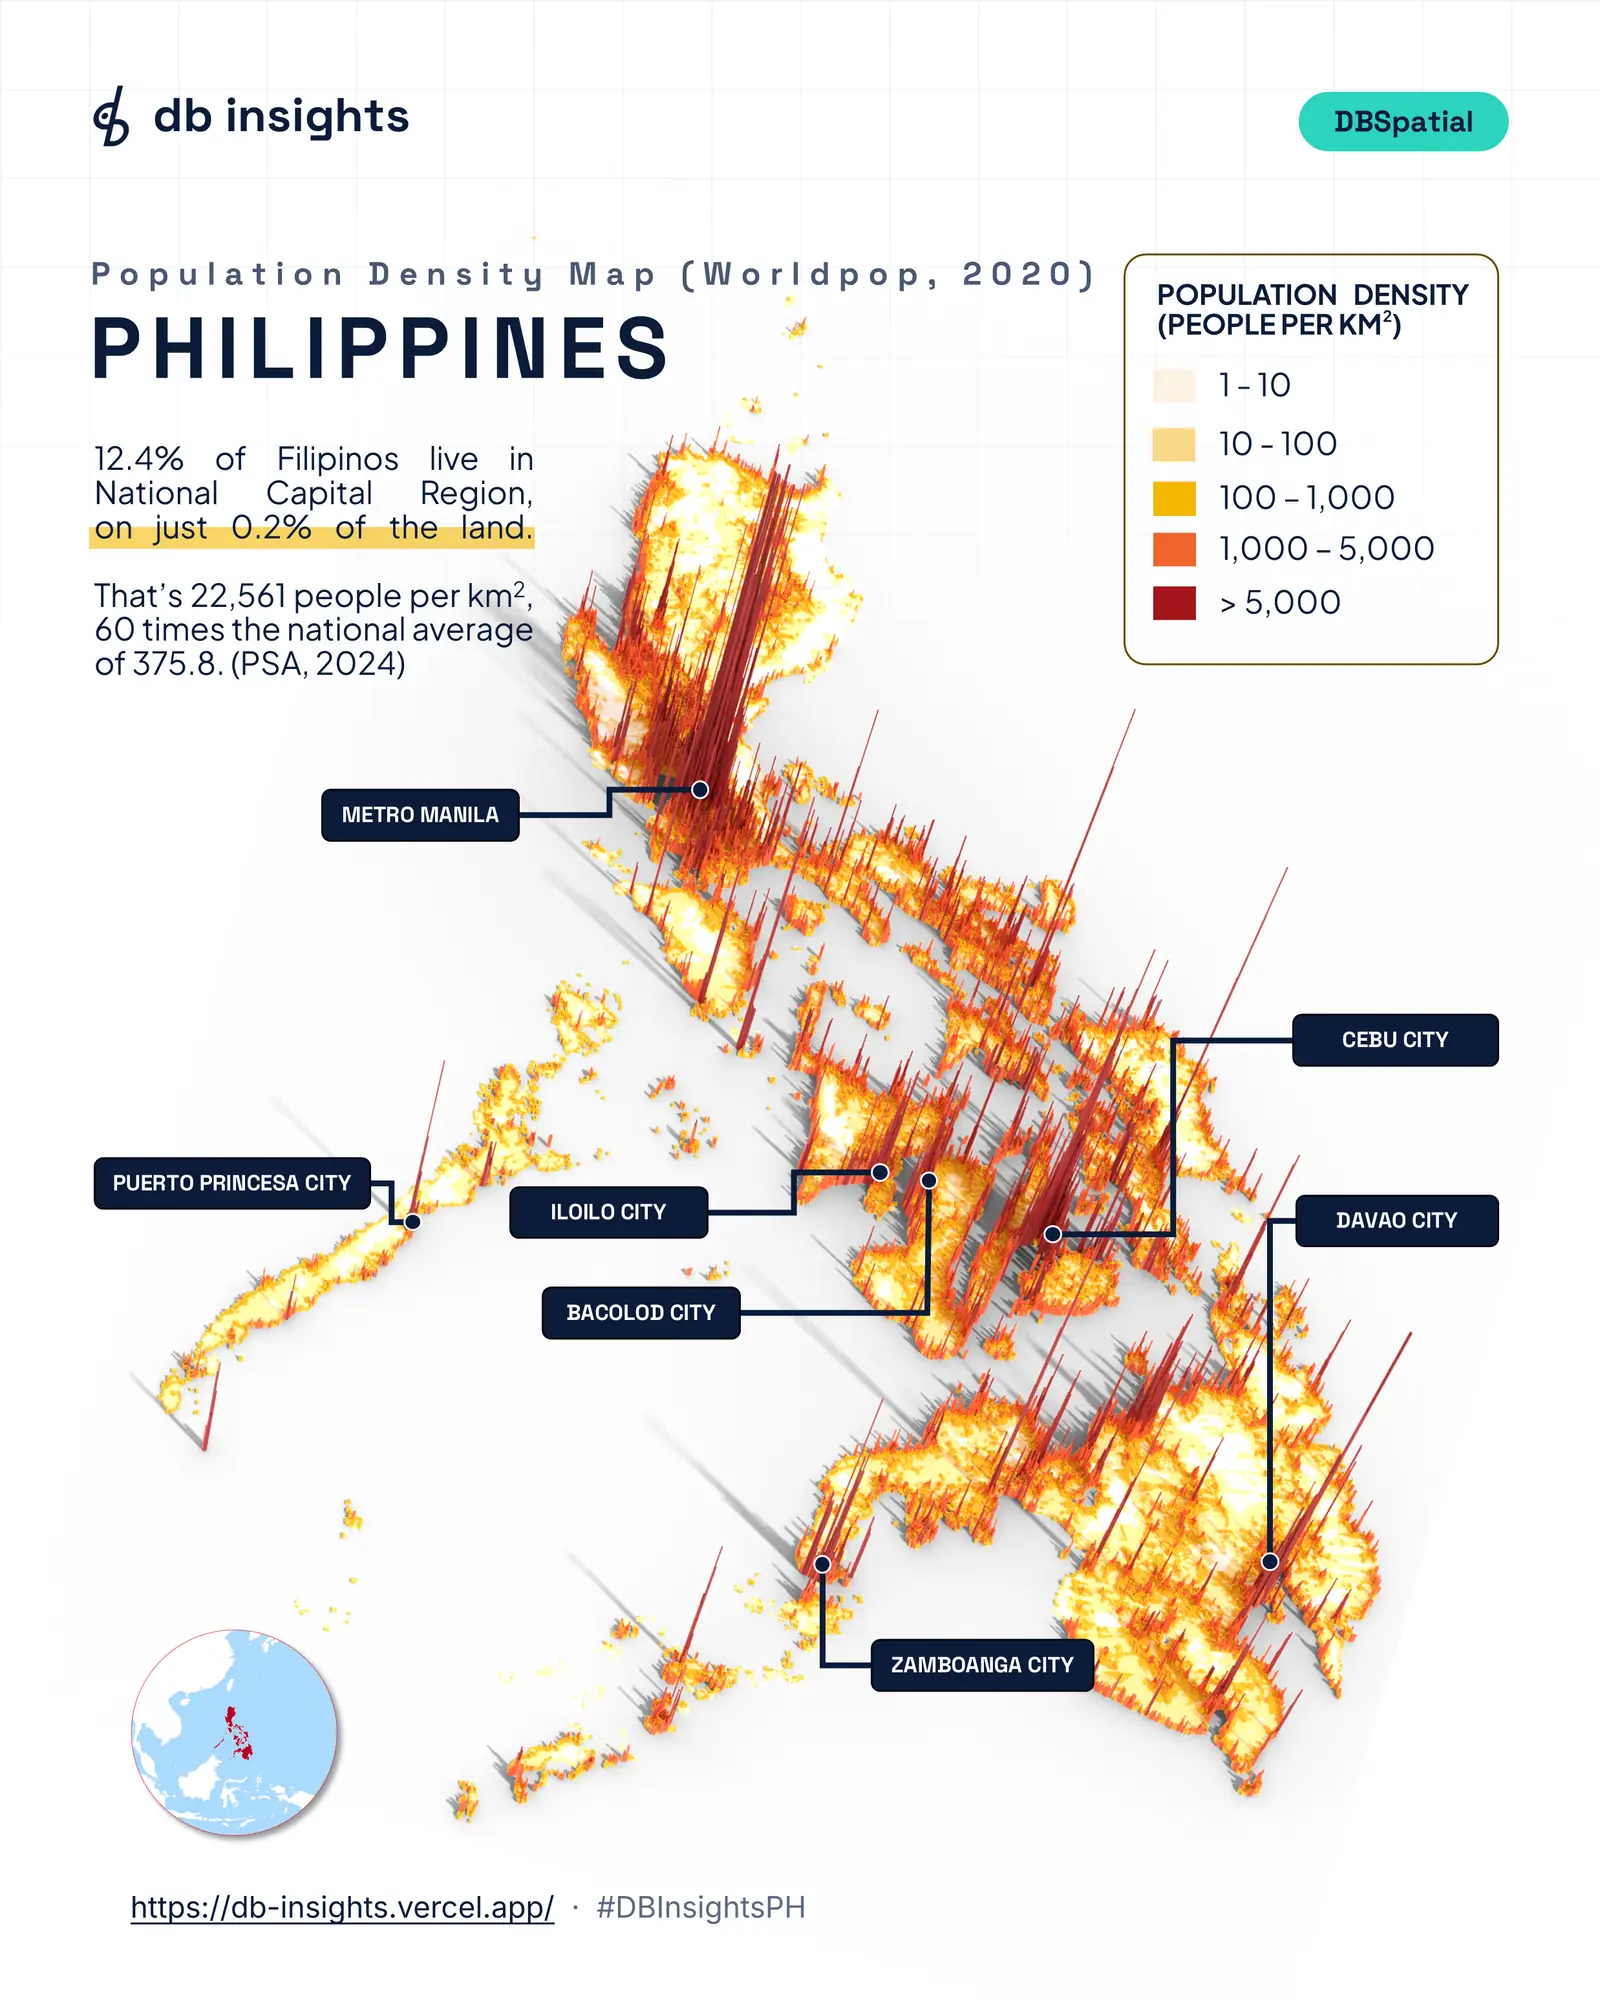
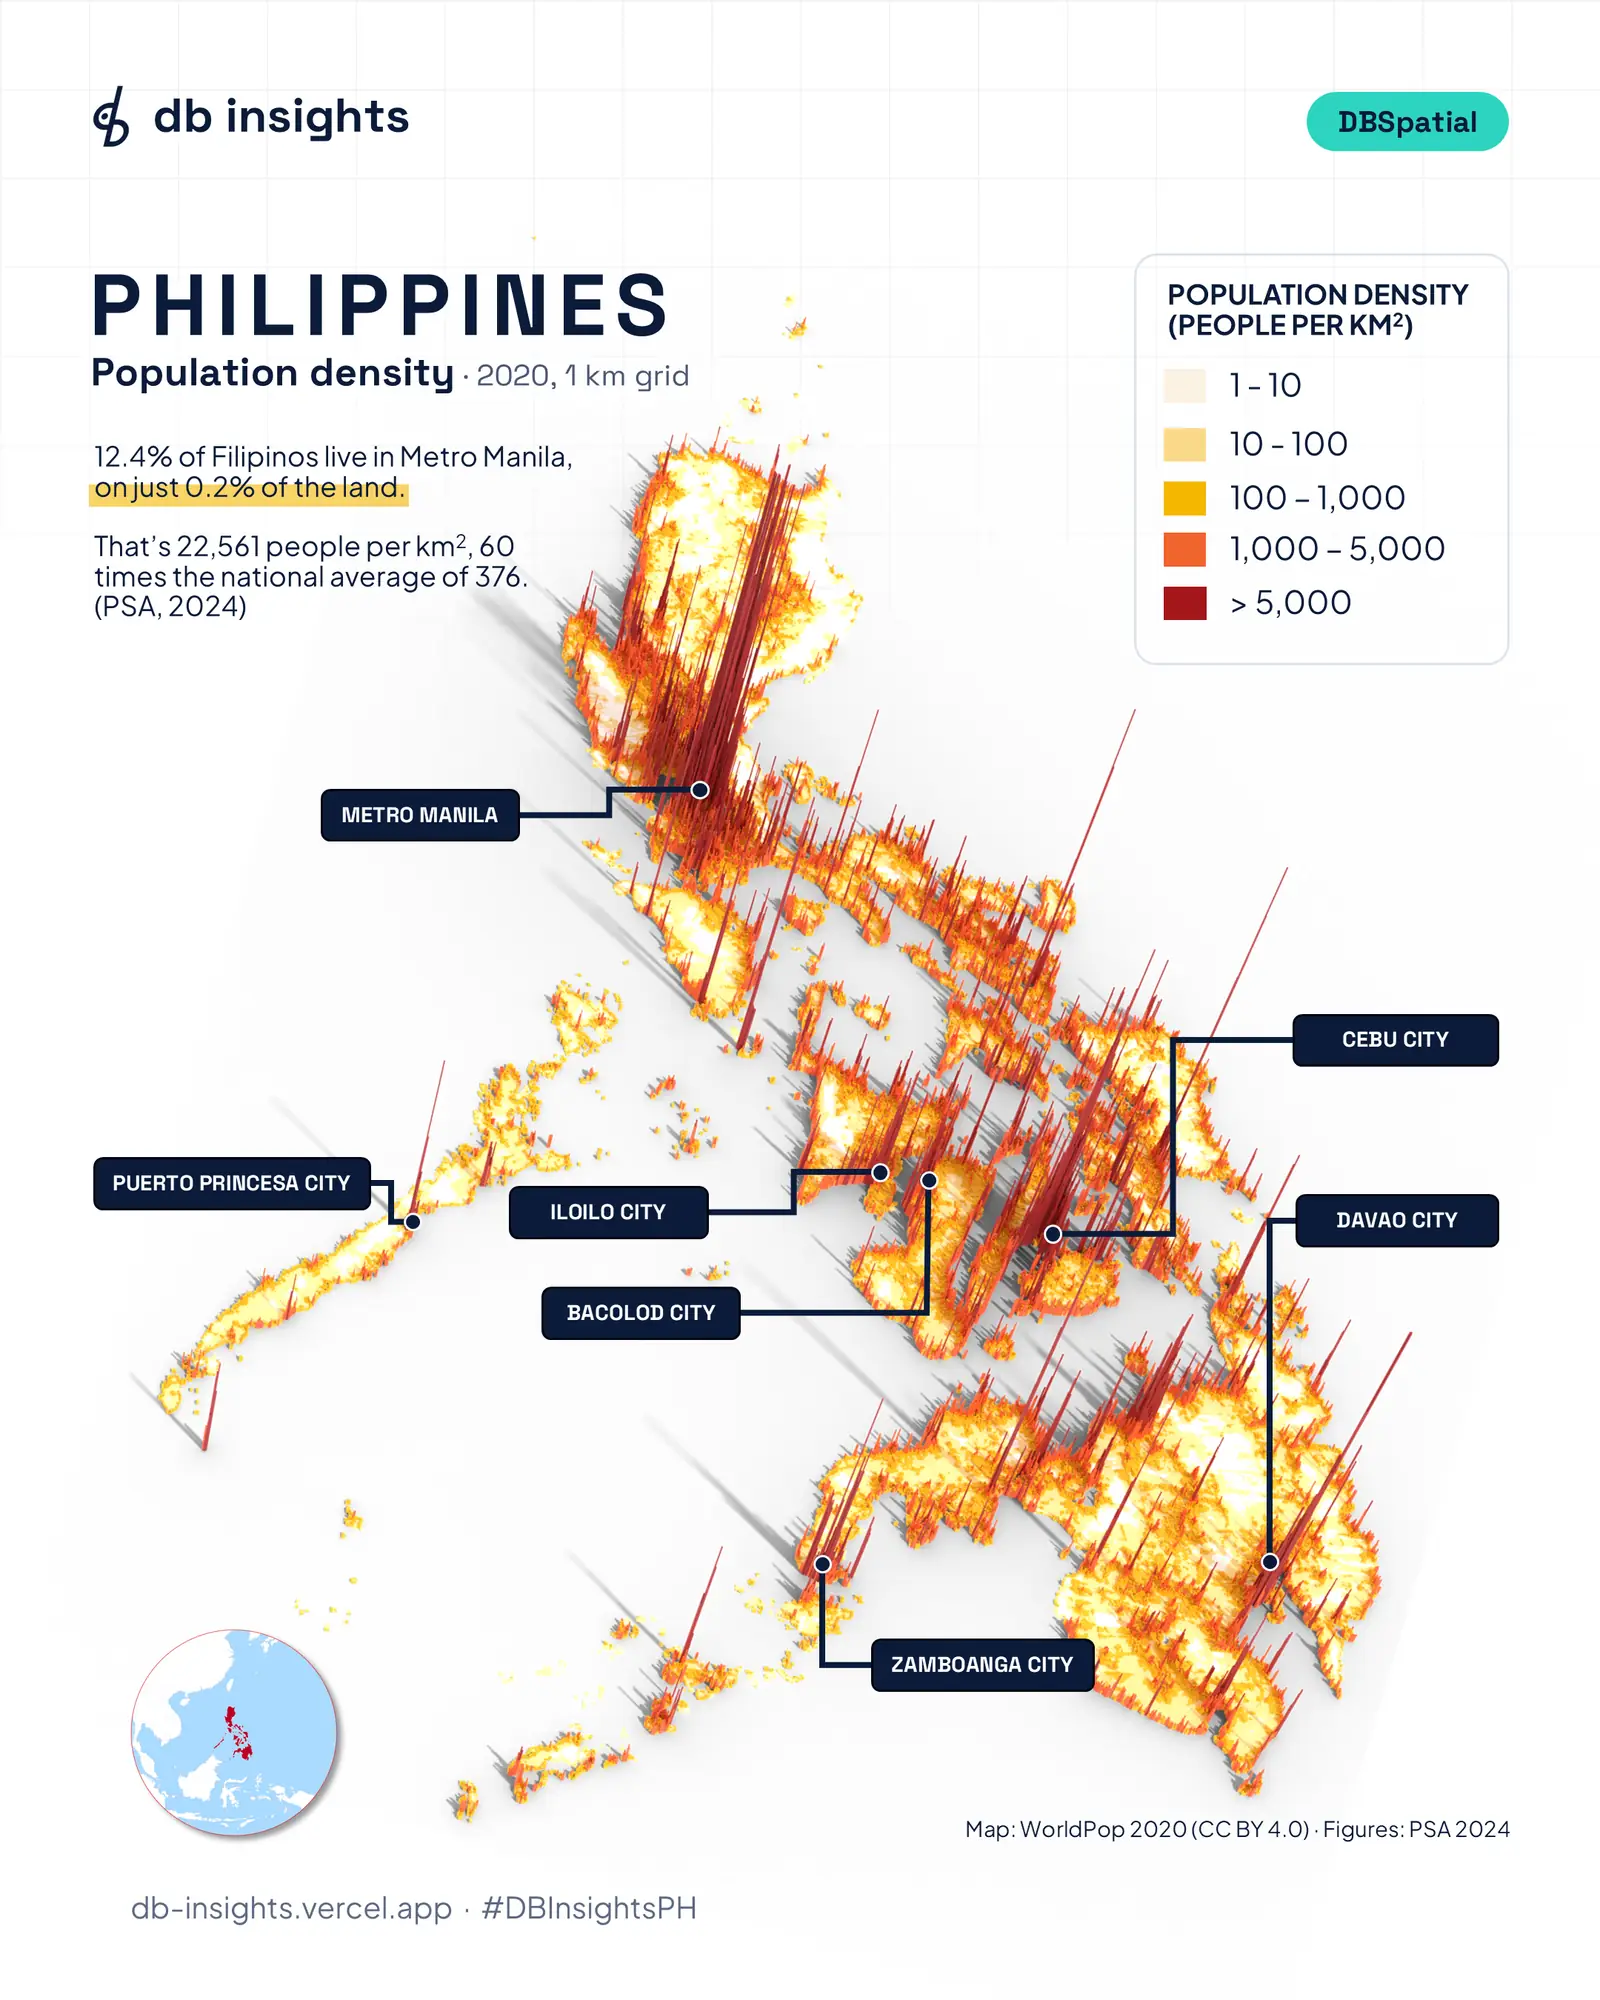
Map post: PSA's official density figures and the re-exported map
Figures now follow PSA's "Highlights on the Population Density in the
Philippines based on the 2024 Census of Population" (Dec 17, 2025, ref.
2025-414, LMB 2019 land areas): Philippines 376/km², Metro Manila 22,561
(more than 60 times), CALABARZON 1,102, Cordillera 86, 39% on 13%.
City-level densities removed (2013 land areas, unconfirmed). Body uses
the SEO caption wording; web map regenerated from the Nov 21 re-export.

diff --git a/src/content/posts/2026-11-23-where-filipinos-live.md b/src/content/posts/2026-11-23-where-filipinos-live.md
@@ -1,14 +1,18 @@
 ---
 # Post 01: the first Map Breakdown (DBSpatial, Population theme).
-# Text from dbinsights-brand/posts/post-01/caption-worldpop.md; method from
-# dbinsights-brand/guides/WORLDPOP-POST-01.md. Figures are PSA 2024; the map
-# is WorldPop 2020. The caption file asks to confirm the national figure
-# (375.8 per km², 112,727,776 people) against PSA's official 2024 release.
+# Text from dbinsights-brand/posts/post-01/caption-worldpop.md (the SEO
+# rewrite); method from dbinsights-brand/guides/WORLDPOP-POST-01.md.
+# Figures are PSA's official ones: "Highlights on the Population Density in
+# the Philippines based on the 2024 Census of Population (2024 POPCEN)",
+# released Dec 17, 2025, ref. 2025-414 (LMB 2019 land areas; 112,727,776
+# people on an estimated 300,000 km²). No city-level densities: those used
+# 2013 land areas and aren't confirmed yet. The map is WorldPop 2020; no
+# number in the text is read off the map.
 title: "Where Filipinos live, one square kilometre at a time"
 date: 2026-11-23
 format: "Map Breakdown"
 summary: "A 3D map of where everyone in the Philippines lives, one 1 km square at a time."
-source: "Map: WorldPop 2020, 1 km grid (UN-adjusted); heights capped at 60,000 people/km². Figures: PSA 2024 Census of Population. Map data: WorldPop (www.worldpop.org), CC BY 4.0, DOI 10.5258/SOTON/WP00675."
+source: "Map: WorldPop 2020, 1 km grid (UN-adjusted); heights capped at 60,000 people/km². Map data: WorldPop (www.worldpop.org), CC BY 4.0, DOI 10.5258/SOTON/WP00675. Figures: PSA, Highlights on the Population Density in the Philippines based on the 2024 Census of Population (released Dec 17, 2025, ref. 2025-414)."
 # Fill this in after posting on LinkedIn (Mon Nov 23, 2026), then uncomment:
 # linkedinUrl: "https://www.linkedin.com/posts/..."
 cover: "/img/posts/2026-11-23-where-filipinos-live.webp"
@@ -26,7 +30,7 @@ draft: false
   width="1600"
   height="2000"
   decoding="async"
-  alt="3D map of the Philippines' population density on a 1 km grid (WorldPop 2020). Each square kilometre is a column whose height and colour show people per km², from cream (1 to 10) through gold to deep red (over 5,000). The tallest red spikes crowd Metro Manila; smaller spikes stand at Cebu City, Davao City, Iloilo City, Bacolod City, Zamboanga City and Puerto Princesa City. Text on the map: 12.4% of Filipinos live in the National Capital Region, on just 0.2% of the land."
+  alt="3D map of the Philippines' population density on a 1 km grid (WorldPop 2020). Each square kilometre is a column whose height and colour show people per km², from cream (1 to 10) through gold and orange to deep red (over 5,000). The tallest red spikes crowd Metro Manila; smaller spikes stand at Cebu City, Davao City, Iloilo City, Bacolod City, Zamboanga City and Puerto Princesa City. Text on the map: 12.4% of Filipinos live in Metro Manila, on just 0.2% of the land. That's 22,561 people per km², 60 times the national average of 376 (PSA, 2024)."
 />
 <figcaption>
 <span>Map: WorldPop 2020, 1 km grid</span>
@@ -34,26 +38,26 @@ draft: false
 </figcaption>
 </figure>
 
-12.4% of Filipinos live on ==0.2% of the country's land==.
+Population density map of the Philippines: 12.4% of Filipinos live in Metro Manila, on just ==0.2% of the land==.
 
-That's Metro Manila: 14 million people on about 620 km². I mapped where everyone lives, one square kilometre at a time. Each spike is a 1 km square; the taller and redder, the more people in it.
+Each column on this map is one square kilometre. The taller and redder it is, the more people live there. Look at Luzon and you can see the country's population piling into one corner.
 
-## What stood out
+## What the census says
 
-- Metro Manila averages 22,600 people per km², 60 times the national average of 375.8.
-- The City of Manila alone reaches 76,164 per km², the densest in the country. Mandaluyong (50,151) and Pasay (32,440) follow.
+From PSA's 2024 Census of Population:
+
+- Metro Manila has 22,561 people per km², more than 60 times the national average of 376.
+- CALABARZON is next at 1,102. The Cordillera is the least crowded region at 86.
 - Metro Manila, CALABARZON and Central Luzon together hold 39% of Filipinos on 13% of the land.
-- Davao City has almost as many people as the City of Manila (1.85M vs 1.90M), spread over about 98 times the land. That's why its spike looks modest.
-- Only about 1 in 3 cities and municipalities (567 of 1,624) are denser than the national average. A few very crowded places pull the average up.
-
-## Two questions for you
-
-1. Find your hometown on the map: tall red spike or flat cream?
-2. If one big employer or government office moved out of Metro Manila, where should it go, and why?
 
 ## How I made it
 
-- **Data:** WorldPop's 2020 population density grid for the Philippines, 1 km squares, adjusted to the UN national total. The PSA 2024 figures above come from the census, not from the map.
-- **Heights:** linear, so the countryside stays low and the cities spike, and capped at 60,000 people per km², so a few single cells that are model artefacts don't turn into giant fake needles.
-- **Colour:** five density classes, cream through gold to deep red, the same classes as the legend.
-- **Tools:** QGIS to reproject the grid and turn density into heights, Blender to build and light the 3D columns, and PowerPoint for the title, legend and city labels.
+I took WorldPop's 1 km population grid, prepared it in QGIS, built the 3D columns in Blender, and added the labels in PowerPoint.
+
+These are the main steps, not a full tutorial. If you'd like a complete step-by-step guide, tell me in the comments on LinkedIn. If enough people ask, I'll write one.
+
+## Your turn
+
+Now find your hometown. Is it a red spike or flat cream?
+
+On Wednesday: the 10 most crowded cities outside Metro Manila.
